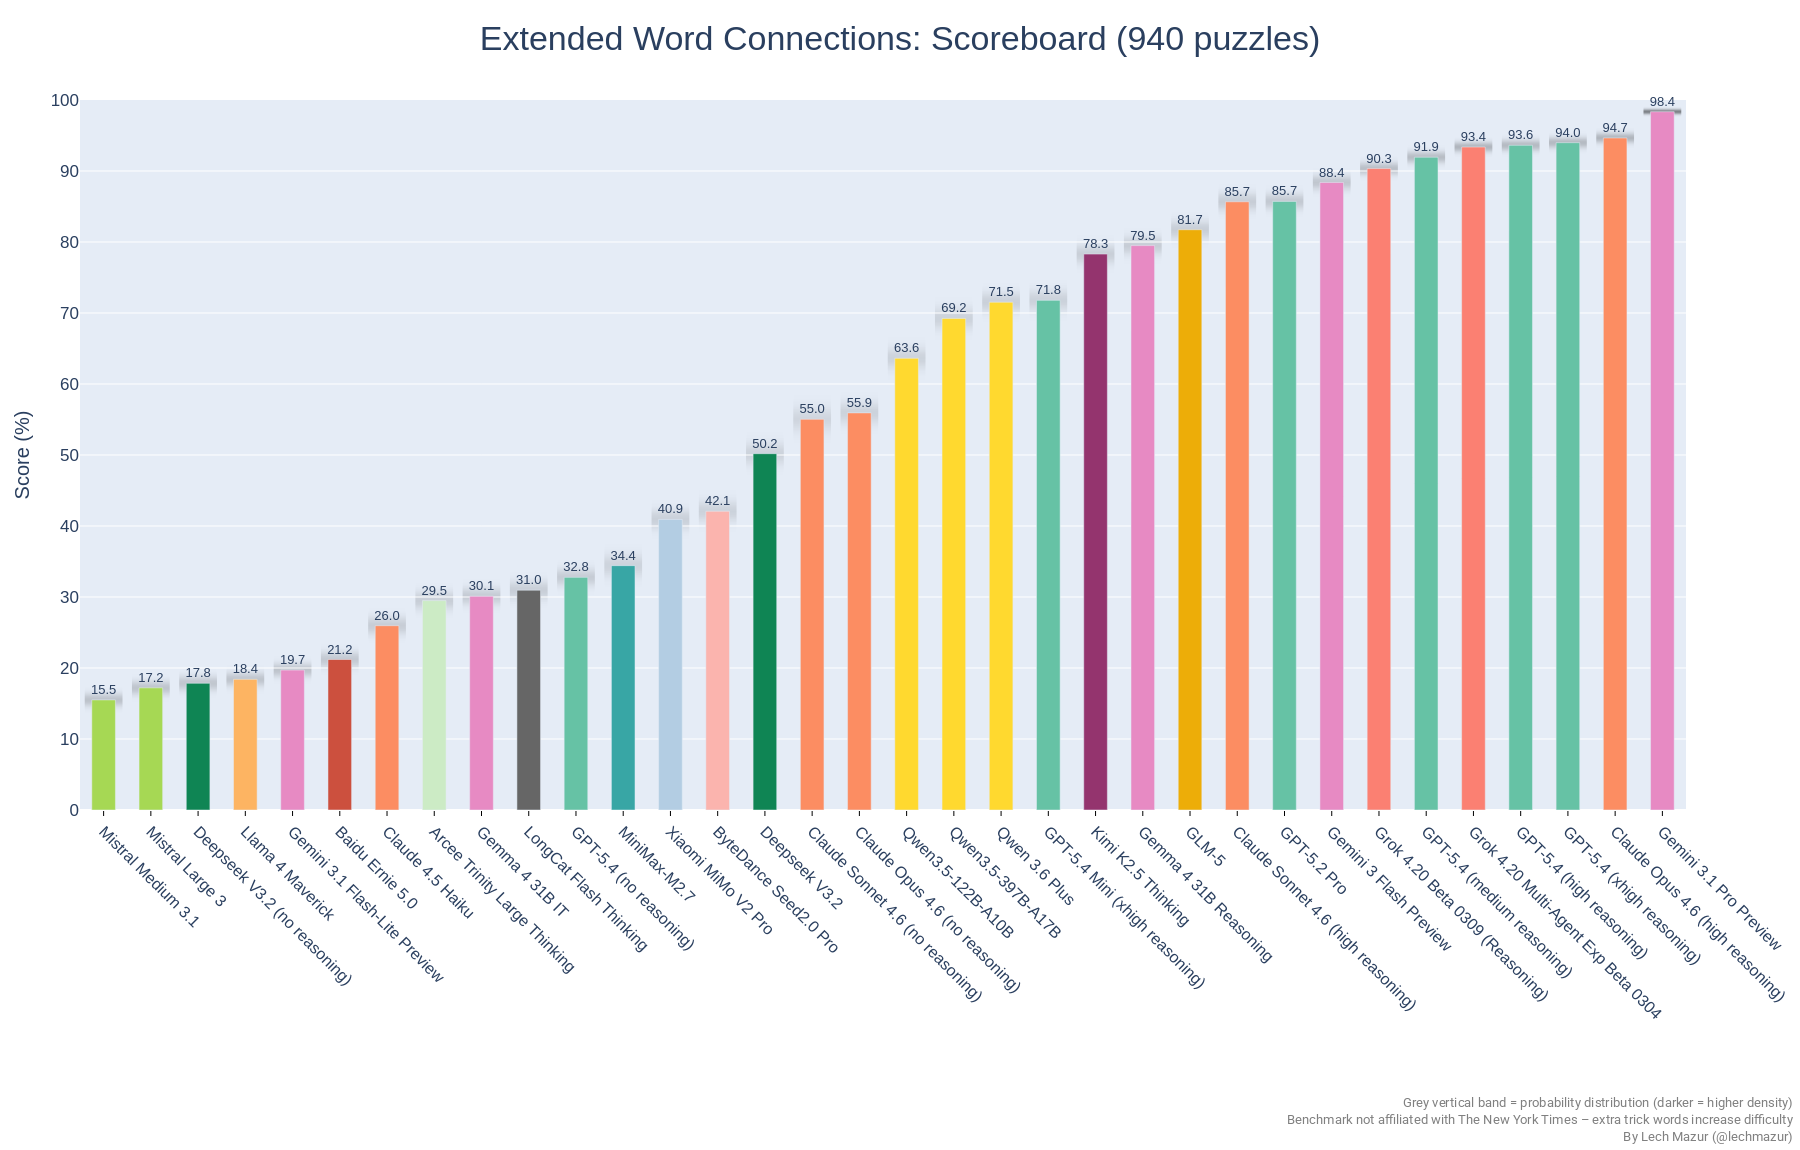
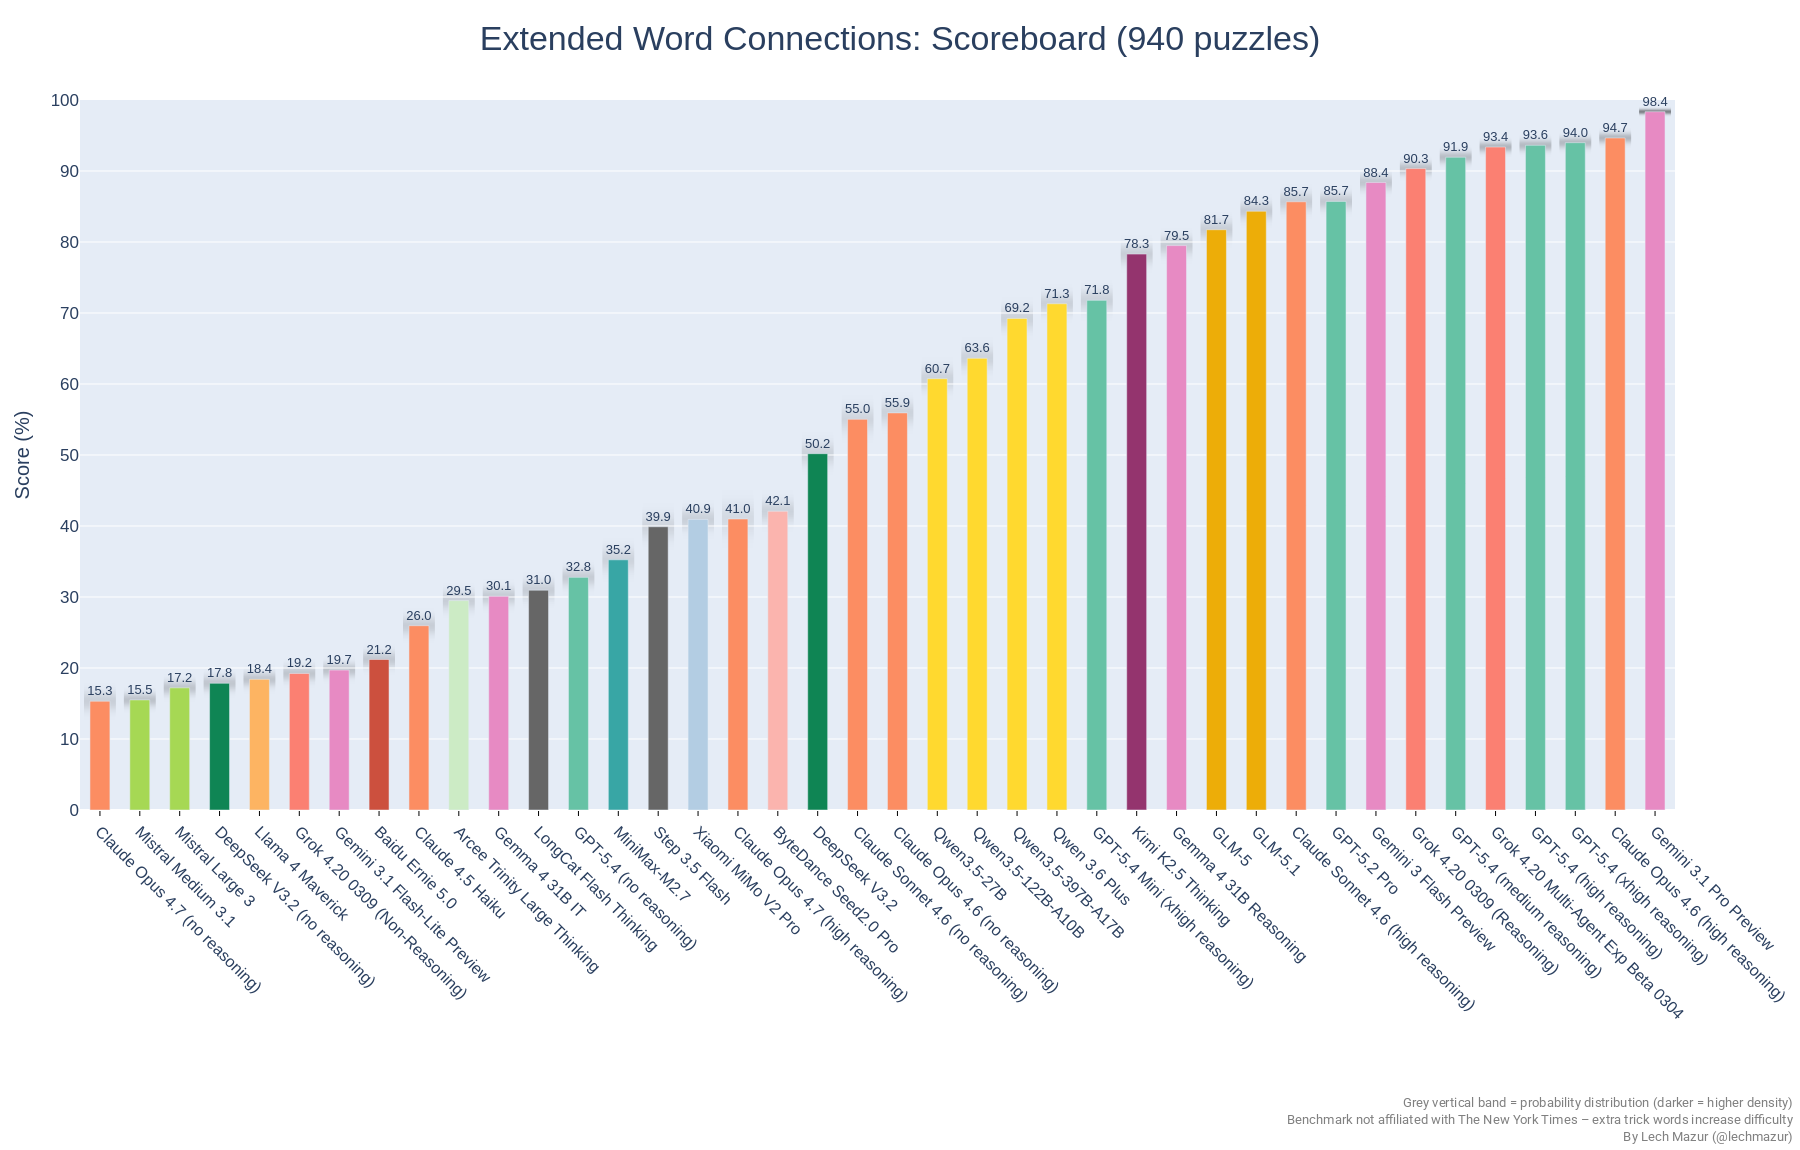
Claude Opus 4.7

Changed region(s): [[0.0311, 0.0913, 0.9644, 0.8826], [0.9644, 0.7913, 0.9956, 0.8217]]

diff --git a/README.md b/README.md
@@ -13,62 +13,69 @@ As of Feb 4, 2025, there is a new version of the benchmark. The standard NYT Con
 |Rank|Model|Score %|#Puzzles|
 |---:|-----|------:|-------:|
 |1|Gemini 3.1 Pro Preview|98.4|940|
-|2|Gemini 3 Pro Preview|96.3|940|
+|2|gemini-3-pro-preview|96.3|940|
 |3|Claude Opus 4.6 (high reasoning)|94.7|940|
 |4|GPT-5.4 (xhigh reasoning)|94.0|940|
 |5|GPT-5.4 (high reasoning)|93.6|940|
 |6|Grok 4.20 Multi-Agent Exp Beta 0304|93.4|940|
 |7|GPT-5.4 (medium reasoning)|91.9|940|
-|8|Grok 4.1 Fast Reasoning|91.7|940|
-|9|Grok 4.20 Beta 0309 (Reasoning)|90.3|940|
-|10|Grok 4.20 Reasoning Exp Beta 0304|89.5|940|
-|11|GPT-5.2 (xhigh reasoning)|88.6|940|
+|8|grok-4-1-fast-reasoning|91.7|940|
+|9|Grok 4.20 0309 (Reasoning)|90.3|940|
+|10|grok-4.20-experimental-beta-0304-reasoning|89.5|940|
+|11|gpt-5.2-xhigh|88.6|940|
 |12|Gemini 3 Flash Preview|88.4|940|
 |13|GPT-5.2 Pro|85.7|940|
 |14|Claude Sonnet 4.6 (high reasoning)|85.7|940|
-|15|Claude Sonnet 4.6 Thinking 32K|82.4|940|
-|16|GLM-5|81.7|940|
-|17|Claude Opus 4.6 Thinking 16K|81.7|940|
-|18|Gemma 4 31B Reasoning|79.5|940|
-|19|Kimi K2.5 Thinking|78.3|940|
-|20|GPT-5.2 (high reasoning)|77.5|940|
-|21|GPT-5.4 Mini (xhigh reasoning)|71.8|940|
-|22|Qwen 3.6 Plus|71.5|940|
-|23|GPT-5.2 (medium reasoning)|71.4|940|
-|24|Qwen3.5-397B-A17B|69.2|940|
-|25|GPT-5.2 (low reasoning)|66.7|940|
-|26|Qwen3.5-122B-A10B|63.6|940|
-|27|Claude Opus 4.5 Thinking 16K|62.6|940|
-|28|Claude Opus 4.5 (no reasoning)|60.3|940|
-|29|Claude Sonnet 4.6 Thinking 16K|57.6|940|
-|30|Claude Opus 4.6 (no reasoning)|55.9|940|
-|31|Claude Sonnet 4.6 (no reasoning)|55.0|940|
-|32|Deepseek V3.2|50.2|940|
-|33|Claude Sonnet 4.5 Thinking 16K|49.4|940|
-|34|Claude Sonnet 4.5 (no reasoning)|47.4|940|
-|35|Qwen3 Max (2026-01-23)|42.1|940|
-|36|ByteDance Seed2.0 Pro|42.1|940|
-|37|Xiaomi MiMo V2 Pro|40.9|940|
-|38|Step 3.5 Flash|39.9|940|
-|39|MiniMax-M2.7|34.4|940|
-|40|GPT-5.4 (no reasoning)|32.8|940|
-|41|LongCat Flash Thinking|31.0|940|
-|42|Gemma 4 31B IT|30.1|940|
-|43|MiniMax-M2.5|29.6|940|
-|44|Arcee Trinity Large Thinking|29.5|940|
-|45|GPT-5.2 (no reasoning)|28.1|940|
-|46|MiniMax-M2|27.0|940|
-|47|Claude 4.5 Haiku|26.0|940|
-|48|Grok 4.1 Fast Non-Reasoning|25.1|940|
-|49|Qwen 3 Max Thinking|24.1|940|
-|50|MiniMax-M2.1|22.7|940|
-|51|Baidu Ernie 5.0|21.2|940|
-|52|Gemini 3.1 Flash-Lite Preview|19.7|940|
-|53|Llama 4 Maverick|18.4|940|
-|54|Deepseek V3.2 (no reasoning)|17.8|940|
-|55|Grok 4.20 Non-Reasoning Exp Beta 0304|17.6|940|
-|56|Mistral Large 3|17.2|940|
-|57|Mistral Medium 3.1|15.5|940|
+|15|GLM-5.1|84.3|940|
+|16|Claude Sonnet 4.6 Thinking 32K|82.4|940|
+|17|GLM-5|81.7|940|
+|18|Claude Opus 4.6 Thinking 16K|81.7|940|
+|19|Gemma 4 31B Reasoning|79.5|940|
+|20|Kimi K2.5 Thinking|78.3|940|
+|21|gpt-5.2-high|77.5|940|
+|22|GPT-5.4 Mini (xhigh reasoning)|71.8|940|
+|23|gpt-5.2-medium|71.4|940|
+|24|Qwen 3.6 Plus|71.3|940|
+|25|Qwen3.5-397B-A17B|69.2|940|
+|26|gpt-5.2-low|66.7|940|
+|27|Qwen3.5-122B-A10B|63.6|940|
+|28|Claude Opus 4.5 Thinking 16K|62.6|940|
+|29|Qwen3.5-27B|60.7|940|
+|30|Claude Opus 4.5 (no reasoning)|60.3|940|
+|31|Claude Sonnet 4.6 Thinking 16K|57.6|940|
+|32|Claude Opus 4.6 (no reasoning)|55.9|940|
+|33|Claude Sonnet 4.6 (no reasoning)|55.0|940|
+|34|DeepSeek V3.2|50.2|940|
+|35|Claude Sonnet 4.5 Thinking 16K|49.4|940|
+|36|Claude Sonnet 4.5 (no reasoning)|47.4|940|
+|37|qwen3-max-2026-01-23|42.1|940|
+|38|ByteDance Seed2.0 Pro|42.1|940|
+|39|Claude Opus 4.7 (high reasoning)|41.0|940|
+|40|Xiaomi MiMo V2 Pro|40.9|940|
+|41|Step 3.5 Flash|39.9|940|
+|42|MiniMax-M2.7|35.2|940|
+|43|GPT-5.4 (no reasoning)|32.8|940|
+|44|LongCat Flash Thinking|31.0|940|
+|45|Gemma 4 31B IT|30.1|940|
+|46|minimax-m2.5|29.6|940|
+|47|Arcee Trinity Large Thinking|29.5|940|
+|48|gpt-5.2-none|28.1|940|
+|49|minimax-m2|27.0|940|
+|50|Claude 4.5 Haiku|26.0|940|
+|51|grok-4-1-fast-non-reasoning|25.1|940|
+|52|qwen3-max-thinking|24.1|940|
+|53|minimax-m2.1|22.7|940|
+|54|Baidu Ernie 5.0|21.2|940|
+|55|Gemini 3.1 Flash-Lite Preview|19.7|940|
+|56|Grok 4.20 0309 (Non-Reasoning)|19.2|940|
+|57|Llama 4 Maverick|18.4|940|
+|58|DeepSeek V3.2 (no reasoning)|17.8|940|
+|59|grok-4.20-experimental-beta-0304-non-reasoning|17.6|940|
+|60|Mistral Large 3|17.2|940|
+|61|Mistral Medium 3.1|15.5|940|
+|62|Claude Opus 4.7 (no reasoning)|15.3|940|
+
+
 
 
 
@@ -265,7 +272,7 @@ These models are excluded from the main board because they ran fewer than 940 to
 ---
 
 ## Notes
-- A temperature setting of 1 was used
+- Claude Opus 4.7 refuses a lot of requests.
 - Partial credit is awarded if the puzzle isn't completely solved. 
 - Only one attempt is allowed per puzzle. Humans solving puzzles on the NYT website get four attempts and a notification when they're one step away from the solution.
 - Multi-turn ensemble is my unpublished system. It utilizes multiple LLMs, multi-turn dialogues, and other proprietary techniques. It is slower and more costly to run but it does very well. It [outperforms](https://x.com/LechMazur/status/1828804485033992514/photo/1) non-o1 LLMs on MMLU-Pro and GPQA.
@@ -292,6 +299,8 @@ These models are excluded from the main board because they ran fewer than 940 to
 ---
 
 ## Updates
+- April 16, 2025: Claude Opus 4.7 added.
+- April 15, 2026: GLM-5.1, Step 3.5 Flash, Qwen3.5-27B added.
 - April 6, 2026: GPT 5.4 (high), Gemma 4 31B Reasoning, Qwen3.5-122B-A10B added.
 - April 4, 2026: MiniMax-M2.7 added.
 - April 3, 2026: Arcee Trinity Large Thinking, Qwen 3.6 Plus, Gemma 4 31B added.
